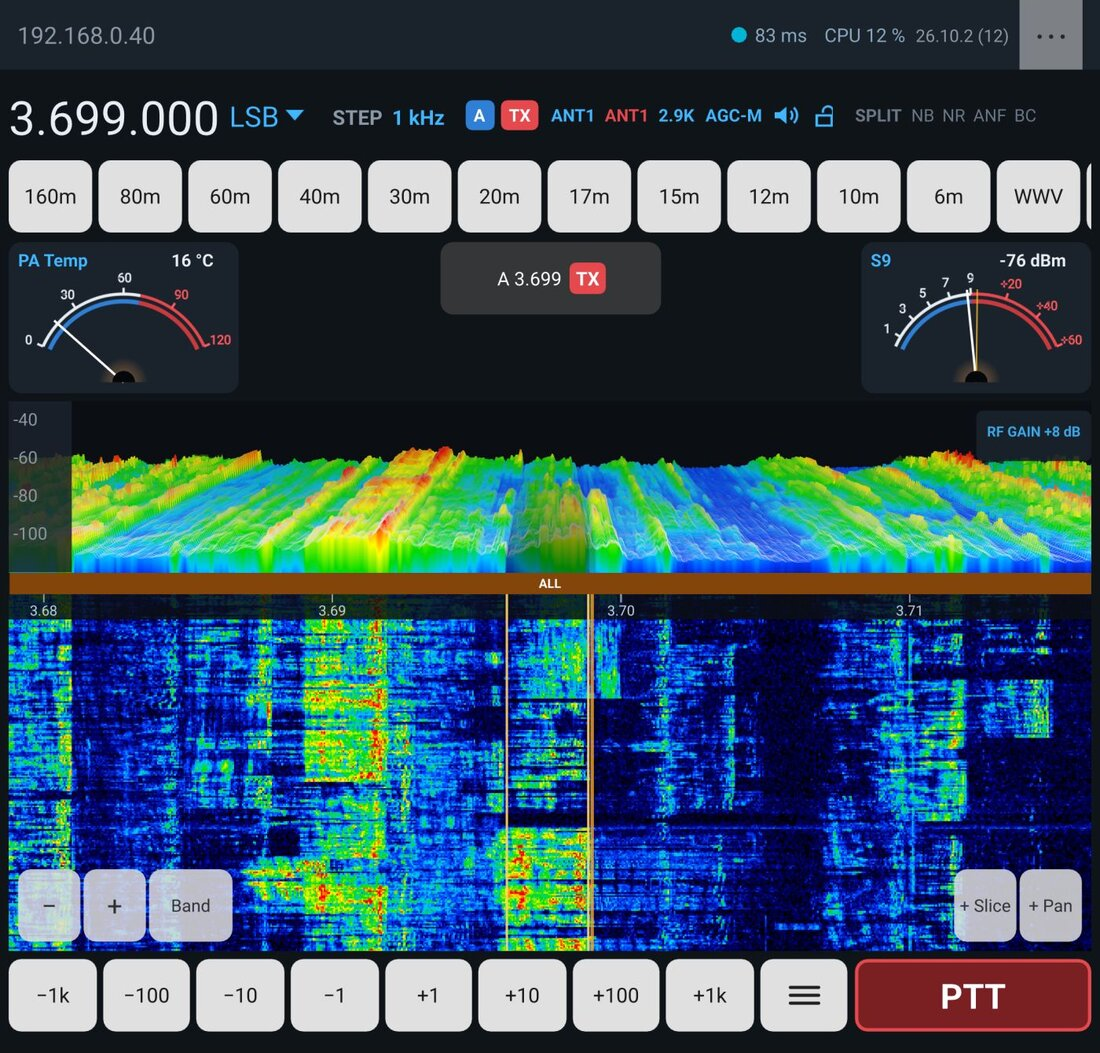
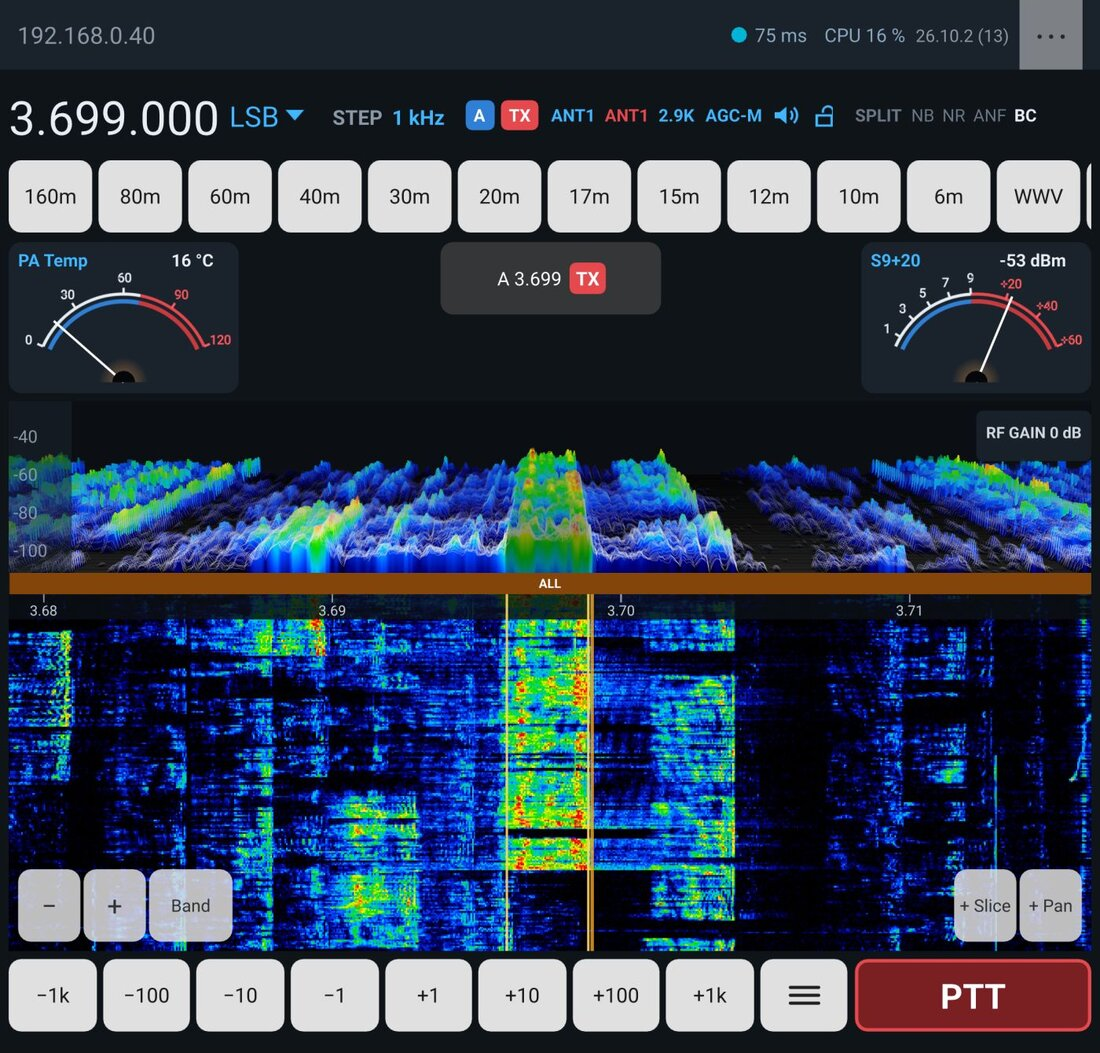
mobile: Android screenshots in the README and manual (taken on a OnePlus Open)
Claude-Session: https://claude.ai/code/session_01KANojkzU64KoozGDbNDzRK

diff --git a/README.md b/README.md
@@ -177,6 +177,13 @@ radio interface, with no computer running alongside.
   <img src="docs/mobile/passband-lsb.jpg" width="38%" alt="LSB filter passband: fill over the spectrum, edge lines through the waterfall"/>
 </p>
 
+<p align="center">
+  <img src="docs/mobile/android-foldable.jpg" width="48%" alt="OksaSDR on Android: a OnePlus Open's inner screen, 3D spectrum and waterfall"/>
+  &nbsp;
+  <img src="docs/mobile/android-foldable-controls.jpg" width="48%" alt="OksaSDR on Android with the controls drawer open on the TX tab"/>
+</p>
+<p align="center"><sub>Android beta on a OnePlus Open (inner screen), taken from the device over the developer link.</sub></p>
+
 <sub>Screenshots are rendered by
 [`mobile/tools/update-screenshots.sh`](mobile/tools/update-screenshots.sh) and
 refreshed with every user-interface change.</sub>

diff --git a/docs/mobile/MANUAL.md b/docs/mobile/MANUAL.md
@@ -440,6 +440,10 @@ OksaSDR for Android is in beta. It is the same app as on the iPhone and
 iPad, built from the same code; this section covers what is particular to
 Android.
 
+| Android phone, inner screen | Controls open |
+|---|---|
+| ![OksaSDR on Android](android-foldable.jpg) | ![Controls drawer on Android](android-foldable-controls.jpg) |
+
 **Installing.** Download the newest APK from
 [Releases](https://github.com/OH6OKSA/OksaSDR/releases) on the phone, open
 it, and allow installing from your browser or file manager when Android
